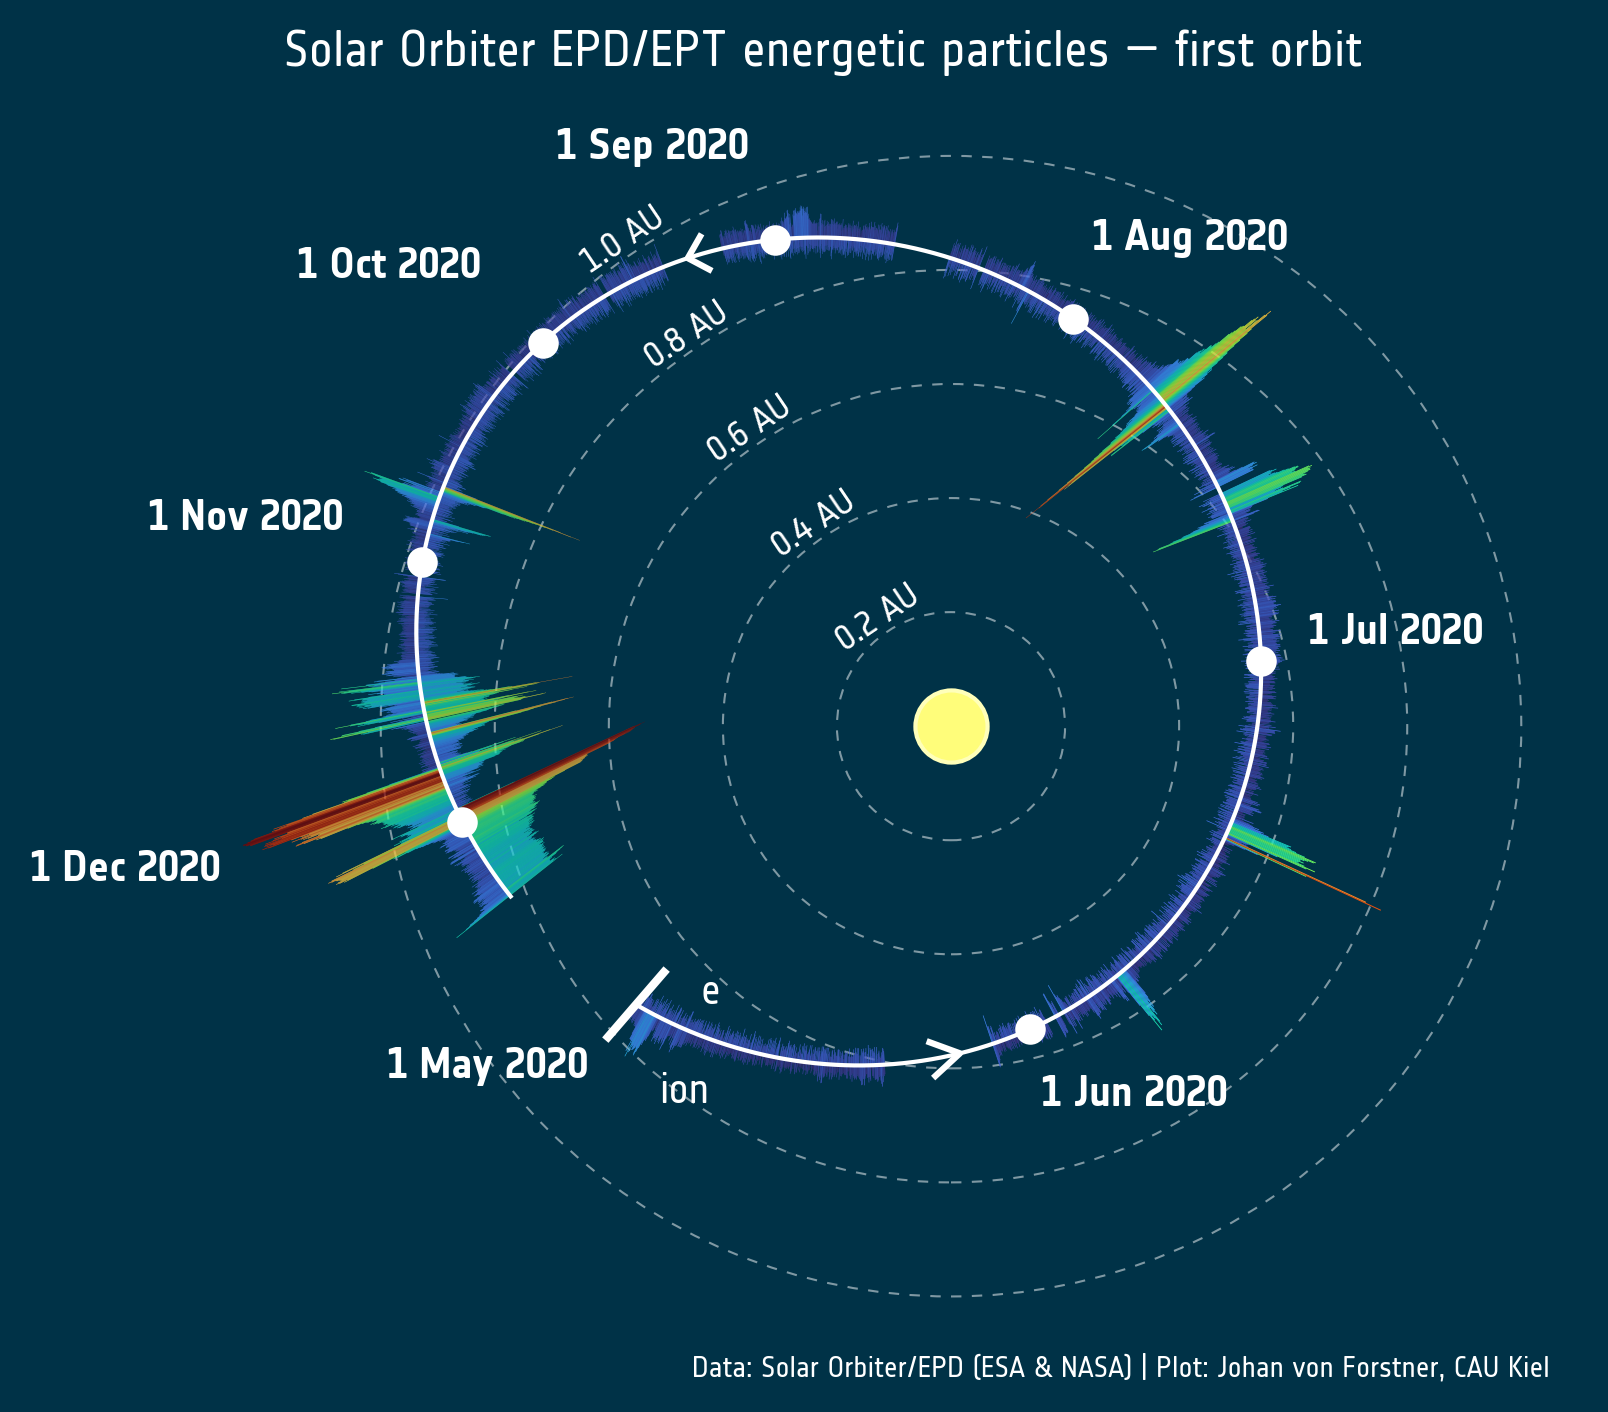
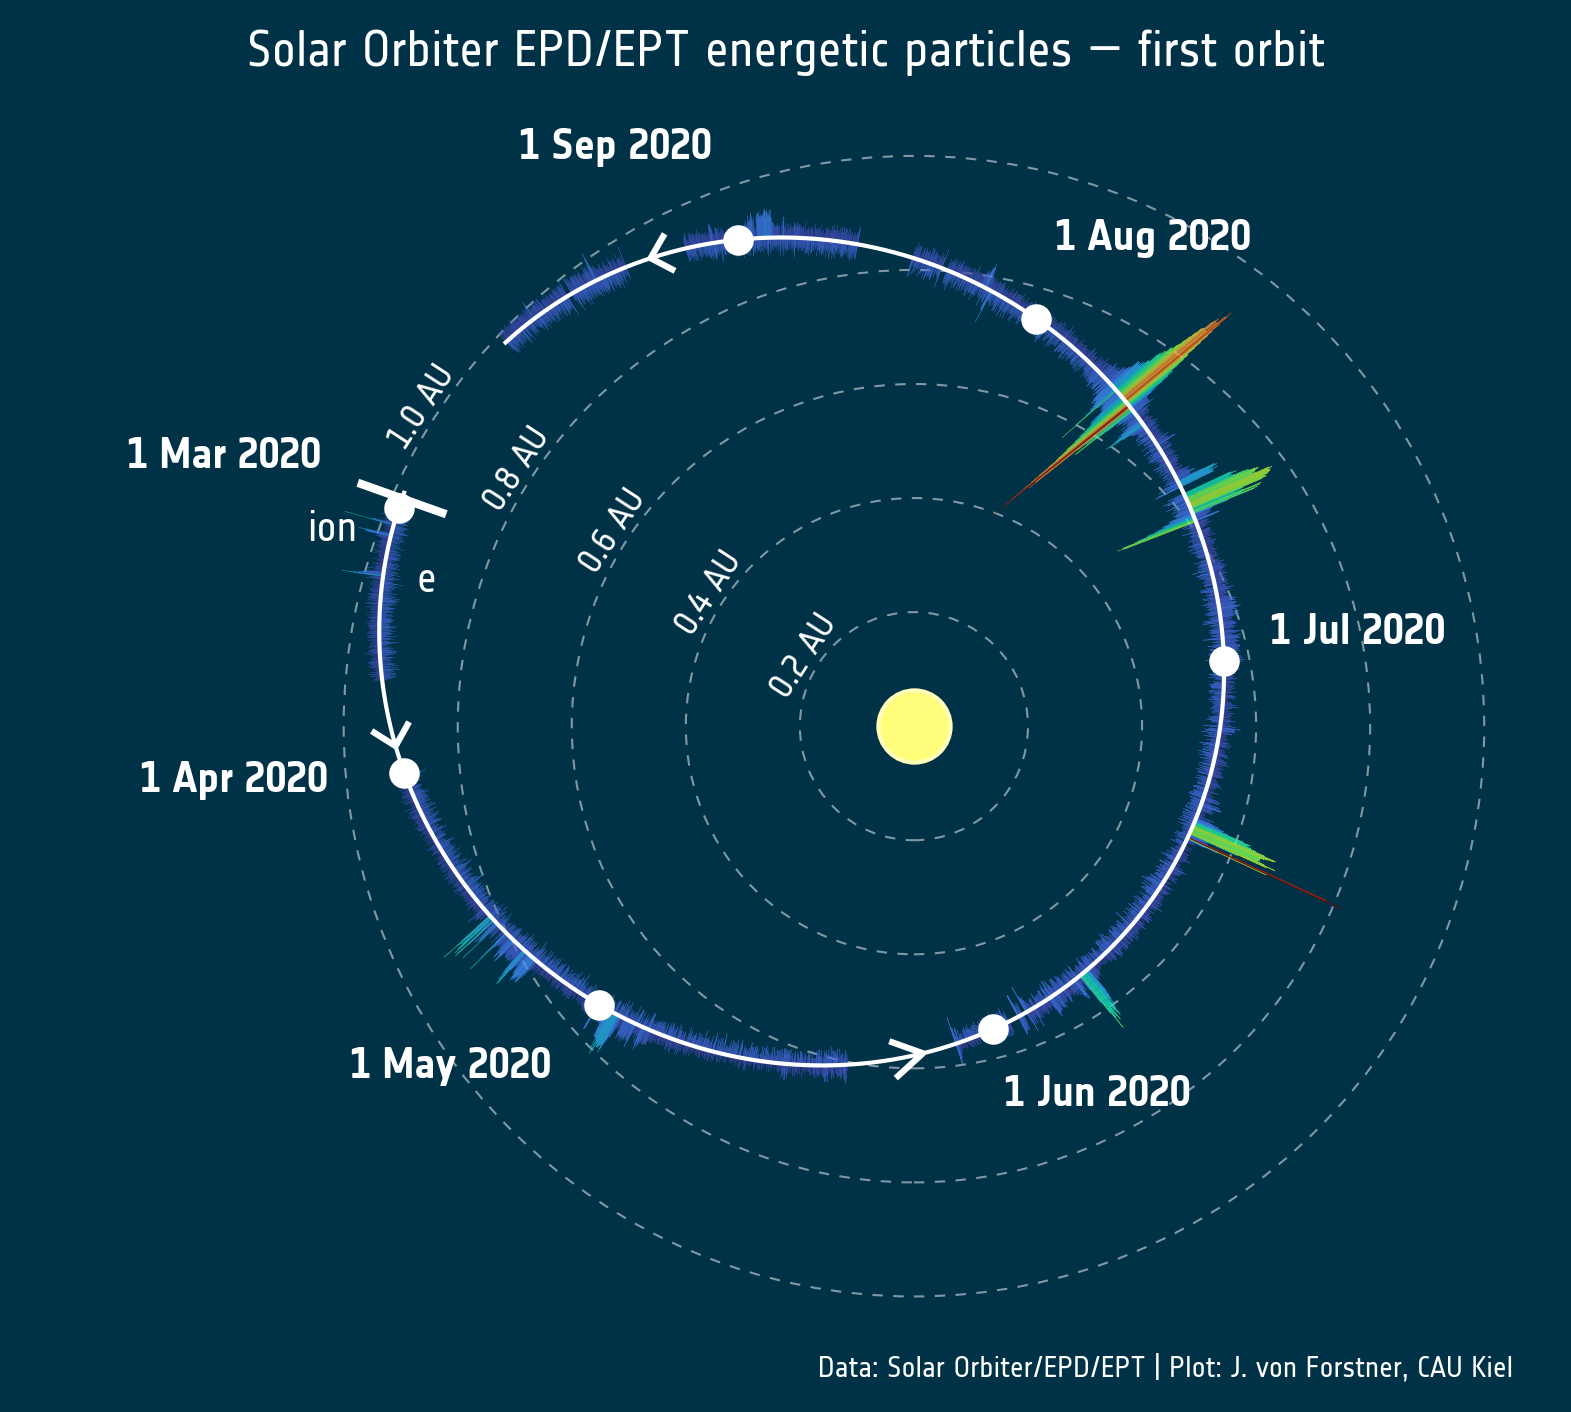
new version of ept_orbit_plot with fluxes, orbit number can now be selected

diff --git a/ept_orbit_plot.py b/ept_orbit_plot.py
@@ -10,15 +10,34 @@ from pytz import utc
 from scipy.constants import au
 from solo_loader.epd import EPDData
 
-from utils.labeling import date_labels, solar_system_grid
+from utils.labeling import date_labels, solar_system_grid, get_textalign
 from utils.path_transform import PathTranform
-from utils.style import set_style, get_foreground_color
+from utils.style import set_style, get_foreground_color, get_title_font
+
+
+def combine_bins(df):
+    """
+    Combines all energy bins of a flux DataFrame
+    """
+    return ((df * df.columns.length).sum(axis=1) / df.columns.length.to_series().sum())
 
 fig, ax = plt.subplots(figsize=(6.5, 5.5))
 set_style(fig, 'esa')
 
-startdate = utc.localize(dt.datetime(2020, 5, 1))
-enddate = utc.localize(dt.datetime(2020, 12, 10))
+orbit_number = 1
+
+if orbit_number == 1:
+    title = 'first orbit'
+    startdate = utc.localize(dt.datetime(2020, 2, 28))
+    enddate = utc.localize(dt.datetime(2020, 10, 1))
+    angle = 33
+elif orbit_number == 2:
+    title = 'second orbit'
+    startdate = utc.localize(dt.datetime(2020, 10, 1))
+    enddate = utc.localize(dt.datetime(2021, 3, 1))
+    angle = 65
+else:
+    raise ValueError(f'orbit {orbit_number} not yet defined')
 
 dates = np.array([startdate + dt.timedelta(seconds=i) for i in np.linspace(0, (enddate - startdate).total_seconds(), 5000)])
 trajectory = SOLO.position(dates)
@@ -30,36 +49,38 @@ ax.plot(x, y, color=get_foreground_color(), linewidth=1, zorder=10)
 
 # load and prepare EPT data
 epd = EPDData(startdate, enddate)
-ept_electron = epd.ept.science.low_latency('foil', 'time')['sun']
-ept_ion = epd.ept.science.low_latency('mag', 'time')['sun']
+ept_electron = epd.ept.science.low_latency('foil', 'time')['sun'].to_flux(edges=True)
+ept_ion = epd.ept.science.low_latency('mag', 'time')['sun'].to_flux(edges=True)
 
-# note: this is just a summed up countrate from the sun telescope for now, not a flux/intensity/whatever.
-data = ept_ion.sum(axis=1).resample('1H').mean().iloc[1:-1]
+# calculate mean flux over all bins
+data = combine_bins(ept_ion).resample('1H').mean().iloc[1:-1]
 data = np.log10(data)  # use logarithmic data
 data[np.isinf(data)] = np.nan
-data += 0.8  # arbitrary shift to get only positive values
+data -= data.resample('3H').mean().min()  # arbitrary shift to get only positive values
 
-data_e = ept_electron.sum(axis=1).resample('1H').mean().iloc[1:-1]
+data_e = combine_bins(ept_electron).resample('1H').mean().iloc[1:-1]
 data_e = np.log10(data_e)  # use logarithmic data
 data_e[np.isinf(data_e)] = np.nan
-data_e += 1.1  # arbitrary shift to get only positive values
+data_e -= data_e.resample('3H').mean().min()  # arbitrary shift to get only positive values
 
 cmap = cm.get_cmap('turbo')
 
 # plot ion and electron data
-for data, scale in [(data, 0.15), (data_e, -0.15)]:
+for data, scale, label in [(data, 0.15, 'ion'), (data_e, -0.15, 'e')]:
     barwidth = date2num(data.index[1]) - date2num(data.index[0])
     norm = Normalize(vmin=data.min(), vmax=data.max())
     transform = PathTranform(x, y, startdate, enddate, scale=scale)
 
     ax.bar(data.index, data, transform=transform + ax.transData, color=cmap(norm(data)), width=barwidth, zorder=9)
 
+    # add label at start of track
+    ha, va = get_textalign((x[0], y[0]), outer=scale > 0)  # proper text alignment on outer and inner side
+    ax.text(date2num(data.index[0]) + 7, 0.35, label, transform=transform + ax.transData, ha=ha, va=va)
+
 # add labels at start of track
 ax.plot([date2num(data.index[0]), date2num(data.index[0])],
         [-0.5, 0.5],
         transform=transform + ax.transData, color=get_foreground_color(), lw=2, zorder=9)
-ax.text(date2num(data.index[0]) + 5, 0.35, 'e', transform=transform + ax.transData)
-ax.text(date2num(data.index[0]) + 5, -0.9, 'ion', transform=transform + ax.transData)
 
 # add arrows
 for date in [dt.datetime(2020, 3, 29), dt.datetime(2020, 5, 27), dt.datetime(2020, 9, 11)]:
@@ -67,7 +88,7 @@ for date in [dt.datetime(2020, 3, 29), dt.datetime(2020, 5, 27), dt.datetime(202
             [-0.2, 0, 0.2], transform=transform + ax.transData, color=get_foreground_color())
 
 # plot grid and date labels
-solar_system_grid(ax)
+solar_system_grid(ax, angle=angle)
 date_labels(ax, startdate, enddate, raiseddates=[
     utc.localize(dt.datetime(2020, 12, 1))
 ])
@@ -77,8 +98,9 @@ ax.set_ylim([-1.2, 1.2])
 ax.set_xlim([-1.55, 1.1])
 plt.axis('off')
 
-plt.title('Solar Orbiter EPD/EPT energetic particles — first orbit', color=get_foreground_color())
-plt.text(1.05, -1.15, 'Data: Solar Orbiter/EPD (ESA & NASA) | Plot: Johan von Forstner, CAU Kiel',
+plt.title(f'Solar Orbiter EPD/EPT energetic particles — {title}', color=get_foreground_color(),
+          fontweight=get_title_font())
+plt.text(1.05, -1.15, 'Data: Solar Orbiter/EPD/EPT | Plot: J. von Forstner, CAU Kiel',
          ha='right', va='bottom', size='x-small')
 
 plt.savefig('ept_orbit_plot.pdf', bbox_inches='tight')

diff --git a/utils/labeling.py b/utils/labeling.py
@@ -7,6 +7,24 @@ import numpy as np
 from utils.style import get_foreground_color, get_secondary_color, get_sun_colors, get_datelabel_font
 
 
+def get_textalign(pos, outer=True):
+    """
+    Calculates text alignment for text that should appear on the outside of the orbit (depending on the longitude)
+
+    Can also do the same for the inside.
+
+    :param pos: 2D position vector
+    :param outer: Whether to use the outer or inner edge
+    :return: horizontal and vertical alignment (strings)
+    """
+    longi = np.arctan2(pos[1], pos[0])
+    cos = np.cos(longi) if outer else - np.cos(longi)
+    sin = np.sin(longi) if outer else - np.sin(longi)
+    ha = 'left' if cos > 0.2 else 'center' if cos > -0.2 else 'right'
+    va = 'bottom' if sin > 0.2 else 'center' if sin > -0.2 else 'top'
+    return ha, va
+
+
 def date_labels(ax, startdate, enddate, distance=1.15, raiseddates=None):
     """
     adds date labels at the start of each month
@@ -29,10 +47,7 @@ def date_labels(ax, startdate, enddate, distance=1.15, raiseddates=None):
 
     for i, date in enumerate(labeldates):
         pos = SOLO.position(date) / au * 1e3
-
-        longi = np.arctan2(pos[1], pos[0])
-        ha = 'left' if np.cos(longi) > 0.2 else 'center' if np.cos(longi) > -0.2 else 'right'
-        va = 'bottom' if np.sin(longi) > 0.2 else 'center' if np.sin(longi) > -0.2 else 'top'
+        ha, va = get_textalign(pos)
 
         f = distance
         if raiseddates is not None and date in raiseddates:

diff --git a/utils/style.py b/utils/style.py
@@ -45,3 +45,10 @@ def get_datelabel_font():
         return 'bold'
     else:
         return 'regular'
+
+
+def get_title_font():
+    if mpl.rcParams['lines.color'] == 'white':
+        return 'regular'
+    else:
+        return 'bold'
